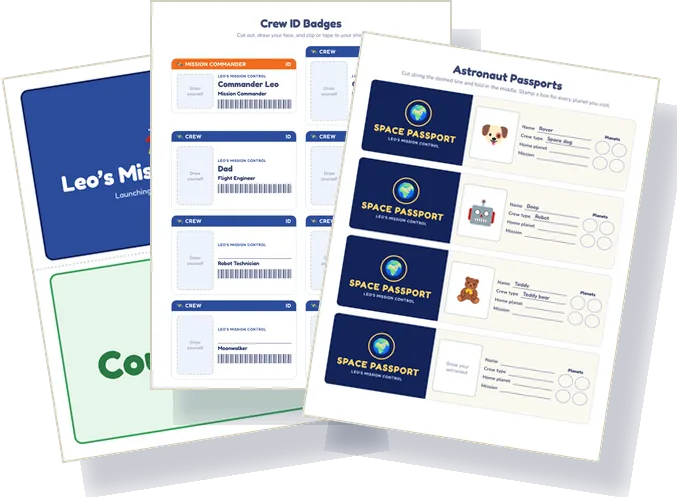
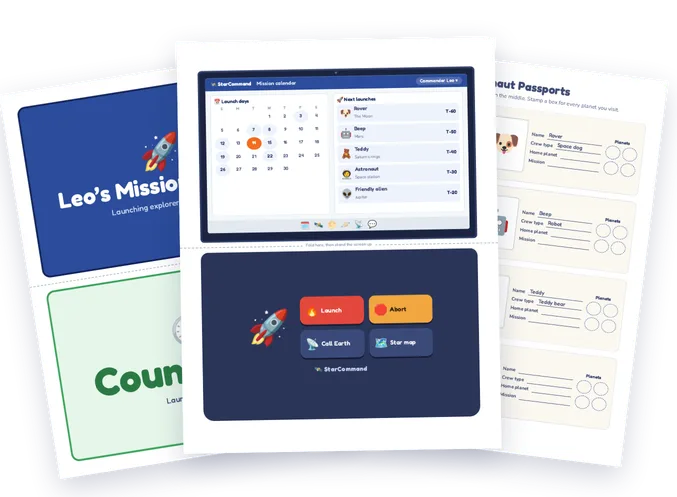
Sell a Party Bundle with every hunt and show all six play kits
The site and Etsy listings now lead with the Party Bundle (custom hunt plus
matching play kit, $16.99, $17.98 value), with hunt only at $9.99 and play
kit only at $7.99. The order form has a bundle or hunt-only choice and sends
it as product. The kits section shows all six kits with their dashboards.

Claude-Session: https://claude.ai/code/session_01GRUfHPufT44LafxUtB7EbP

diff --git a/docs/index.html b/docs/index.html
@@ -177,27 +177,25 @@ input[type="text"], input[type="number"], select { width: 100%; font: 17px/1.3 v
 
 /* pretend play kits */
 .kits-lede { color: var(--ink-soft); font-size: 18px; max-width: 40em; margin-top: 12px; }
-.kit-feature { display: grid; grid-template-columns: repeat(2, 1fr); gap: 20px; margin-top: 32px; }
-.kit-card { background: var(--sheet); border: 1px solid var(--line); border-radius: var(--r); padding: 22px; display: grid; gap: 12px; align-content: start; }
+.kit-points { margin: 18px 0 0; padding-left: 20px; color: var(--ink-soft); display: grid; gap: 4px; max-width: 720px; }
+.kit-grid { display: grid; grid-template-columns: repeat(3, 1fr); gap: 20px; margin-top: 28px; }
+.kit-card { background: var(--sheet); border: 1px solid var(--line); border-radius: var(--r); padding: 20px; display: grid; gap: 10px; align-content: start; }
 .kit-card img { width: 100%; height: auto; aspect-ratio: 677 / 497; background: var(--tint); border-radius: 10px; }
 .kit-card .tag { justify-self: start; font: 500 12px/1 var(--mono); letter-spacing: .06em; text-transform: uppercase; padding: 6px 10px; border-radius: 99px; background: var(--tint); color: var(--mint-deep); }
-.kit-card p { color: var(--ink-soft); }
-.kit-card ul { margin: 0; padding-left: 20px; color: var(--ink-soft); font-size: 15.5px; display: grid; gap: 4px; }
-.kit-more { display: grid; grid-template-columns: repeat(4, 1fr); gap: 14px; margin-top: 20px; }
-.kit-mini { background: var(--sheet); border: 1.5px dashed var(--line); border-radius: var(--r); padding: 16px 18px; display: grid; gap: 6px; align-content: start; }
-.kit-mini b { font: 600 18px/1.2 var(--display); }
-.kit-mini span { font-size: 14.5px; color: var(--ink-soft); }
-.kit-mini small { font: 12px/1 var(--mono); color: var(--orange-edge); text-transform: uppercase; letter-spacing: .06em; }
-@media (max-width: 860px) { .kit-feature { grid-template-columns: 1fr; } .kit-more { grid-template-columns: repeat(2, 1fr); } }
+.kit-card p { color: var(--ink-soft); font-size: 15.5px; }
+@media (max-width: 960px) { .kit-grid { grid-template-columns: repeat(2, 1fr); } }
+@media (max-width: 600px) { .kit-grid { grid-template-columns: 1fr; } }
 
 /* pricing */
-.plans { display: grid; grid-template-columns: repeat(2, 1fr); gap: 20px; margin-top: 32px; max-width: 820px; }
+.plans { display: grid; grid-template-columns: 1.25fr 1fr 1fr; gap: 20px; margin-top: 32px; }
 .plan { background: var(--sheet); border: 1px solid var(--line); border-radius: var(--r); padding: 26px; display: grid; gap: 14px; align-content: start; }
 .plan.main { border: 2px solid var(--ink); }
 .plan .price { font: 700 40px/1 var(--display); font-variant-numeric: tabular-nums; }
+.plan .was { font: 500 14px/1.3 var(--body); color: var(--mint-deep); margin-top: -6px; }
+.plan .was s { color: var(--ink-soft); }
 .plan .price small { font: 400 15px/1 var(--body); color: var(--ink-soft); }
 .plan ul { margin: 0; padding-left: 20px; color: var(--ink-soft); display: grid; gap: 6px; }
-@media (max-width: 700px) { .plans { grid-template-columns: 1fr; } }
+@media (max-width: 860px) { .plans { grid-template-columns: 1fr; } }
 
 /* faq */
 .faq { margin-top: 28px; display: grid; gap: 10px; max-width: 780px; }
@@ -241,7 +239,7 @@ footer .brand b { display: block; font: 600 19px/1.2 var(--display); }
         <h1 style="margin-top:14px">A treasure hunt written for <em>your</em> house.</h1>
         <p class="lede">Tell us your child’s name and the spots in your home you want to use. In a few minutes you get rhyming clue cards, a host checklist and a certificate, ready to print.</p>
         <div class="ctas">
-          <a class="btn btn-orange" href="#order">Make my hunt · $9.99</a>
+          <a class="btn btn-orange" href="#order">Make my party bundle · $16.99</a>
           <a class="btn btn-ghost" href="#kit">See what’s inside</a>
         </div>
         <ul class="facts">
@@ -301,7 +299,7 @@ footer .brand b { display: block; font: 600 19px/1.2 var(--display); }
   <section class="stop" id="order">
     <div class="wrap">
       <div class="pin"><b></b><span class="eyebrow">Make your hunt</span></div>
-      <h2>Build your hunt</h2>
+      <h2>Build your party bundle</h2>
       <form class="builder" id="orderForm" novalidate>
         <div class="panel">
           <div class="row2">
@@ -319,7 +317,11 @@ footer .brand b { display: block; font: 600 19px/1.2 var(--display); }
         <aside class="panel summary" aria-live="polite">
           <div class="field"><span class="eyebrow">Your trail</span><p id="trailTitle" style="font:600 20px/1.2 var(--display)"></p></div>
           <ol class="route" id="route"></ol>
-          <div class="total"><span>Custom hunt, PDF</span><strong>$9.99</strong></div>
+          <div class="chips" role="group" aria-label="What to include">
+            <button type="button" class="chip product" data-product="bundle" data-price="16.99" data-label="Hunt + play kit, PDF" aria-pressed="true">Hunt + play kit</button>
+            <button type="button" class="chip product" data-product="hunt" data-price="9.99" data-label="Custom hunt, PDF" aria-pressed="false">Hunt only</button>
+          </div>
+          <div class="total"><span id="totalLabel">Hunt + play kit, PDF</span><strong id="totalPrice">$16.99</strong></div>
           <button class="btn btn-orange" type="submit" style="justify-content:center">Continue to checkout</button>
           <p class="status" id="formStatus"></p>
           <p class="alt">Prefer Etsy? <a id="etsyLink" href="#" target="_blank" rel="noopener">Order the same hunt in our Etsy shop</a>.</p>
@@ -332,28 +334,45 @@ footer .brand b { display: block; font: 600 19px/1.2 var(--display); }
     <div class="wrap">
       <div class="pin"><b></b><span class="eyebrow">Pretend play kits</span></div>
       <h2>Keep the adventure going after the hunt</h2>
-      <p class="kits-lede">Printable role-play kits with your child’s name on the signs, badges and certificate, and their own pets or toys as the patients, passengers and crew. Every hunt theme has a matching kit, and there are stand-alone kits too.</p>
-      <div class="kit-feature">
+      <p class="kits-lede">Every hunt comes with a matching play kit: 17 printable pages with your child’s name on the signs, badges and certificate, and their own pets or toys as the patients, passengers and crew.</p>
+      <ul class="kit-points"><li>8 door signs with your child’s name</li><li>A fold-up dashboard with a calendar, a “next up” list and 3 screens</li><li>ID badges, check-up forms, tickets, passports, a menu with coins and a certificate</li></ul>
+      <div class="kit-grid">
         <article class="kit-card">
-          <img src="img/kit-space.webp" alt="Mission Control kit pages: a Leo’s Mission Control sign, crew ID badges and space passports" width="677" height="497" loading="lazy">
-          <span class="tag">Goes with Deep Space</span>
-          <h3>Mission Control</h3>
-          <p>Run the launch from a cardboard rocket. Crew badges, boarding passes, astronaut health checks and a Space Cadet certificate.</p>
-          <ul><li>8 signs, including “Leo’s Mission Control”</li><li>Passports for each crew member</li><li>Snack bar menu with star credits to cut out</li></ul>
+          <img src="img/kit-dino.webp" alt="Dino Dig Lab kit pages: a sign, a dino field scanner with a calendar screen, and passports" width="677" height="497" loading="lazy">
+          <span class="tag">Comes with Dino Fossil Recovery</span>
+          <h3>Dino Dig Lab</h3>
+          <p>Run a fossil lab with a dino scanner that tracks today’s digs, scientist badges and a dino passport for every toy.</p>
         </article>
         <article class="kit-card">
-          <img src="img/kit-vet.webp" alt="Vet Clinic kit pages: a Maya’s Pet Clinic sign, staff ID badges and pet passports" width="677" height="497" loading="lazy">
+          <img src="img/kit-hero.webp" alt="Hero HQ kit pages: a sign, a hero communicator with a calendar screen, and passports" width="677" height="497" loading="lazy">
+          <span class="tag">Comes with Superhero HQ Trial</span>
+          <h3>Hero HQ</h3>
+          <p>Answer alerts on the hero communicator, hand out hero badges and log every rescue on the mission board.</p>
+        </article>
+        <article class="kit-card">
+          <img src="img/kit-pirate.webp" alt="Pirate Ship kit pages: a sign, a fold-up ship’s helm with a calendar screen, and passports" width="677" height="497" loading="lazy">
+          <span class="tag">Comes with Pirate’s Lost Ledger</span>
+          <h3>Pirate Ship</h3>
+          <p>Steer the ship’s helm, check the crew’s sea legs, sell voyage tickets and pay in gold doubloons.</p>
+        </article>
+        <article class="kit-card">
+          <img src="img/kit-space.webp" alt="Mission Control kit pages: a sign, a mission control console with a calendar screen, and passports" width="677" height="497" loading="lazy">
+          <span class="tag">Comes with Deep Space Rover</span>
+          <h3>Mission Control</h3>
+          <p>Launch from the mission control console, with crew badges, boarding passes and astronaut health checks.</p>
+        </article>
+        <article class="kit-card">
+          <img src="img/kit-royal.webp" alt="Royal Castle kit pages: a sign, a magic mirror with a calendar screen, and passports" width="677" height="497" loading="lazy">
+          <span class="tag">Comes with Royal Castle Garden Quest</span>
+          <h3>Royal Castle</h3>
+          <p>Greet guests at the magic mirror, crown the royal court and stamp a royal pass for every visitor.</p>
+        </article>
+        <article class="kit-card">
+          <img src="img/kit-vet.webp" alt="Vet Clinic kit pages: a sign, a clinic laptop with a calendar screen, and passports" width="677" height="497" loading="lazy">
           <span class="tag">Stand-alone kit</span>
           <h3>Vet Clinic</h3>
-          <p>Turn the living room into a pet clinic. Staff badges, check-up forms for each of your child’s pets, prescriptions and a Junior Vet certificate.</p>
-          <ul><li>8 signs, including “Maya’s Pet Clinic”</li><li>A check-up form and passport for every pet</li><li>Price list with paw coins to cut out</li></ul>
+          <p>Turn the living room into a pet clinic with a clinic laptop, check-up forms for every pet and prescriptions.</p>
         </article>
-      </div>
-      <div class="kit-more">
-        <div class="kit-mini"><small>Coming soon</small><b>Dino Dig Lab</b><span>Goes with Dino Fossil Recovery</span></div>
-        <div class="kit-mini"><small>Coming soon</small><b>Superhero HQ</b><span>Goes with Superhero HQ Trial</span></div>
-        <div class="kit-mini"><small>Coming soon</small><b>Pirate Ship</b><span>Goes with Pirate’s Lost Ledger</span></div>
-        <div class="kit-mini"><small>Coming soon</small><b>Royal Castle</b><span>Goes with Royal Castle Quest</span></div>
       </div>
     </div>
   </section>
@@ -361,11 +380,13 @@ footer .brand b { display: block; font: 600 19px/1.2 var(--display); }
   <section class="stop" id="pricing">
     <div class="wrap">
       <div class="pin"><b></b><span class="eyebrow">Pricing</span></div>
-      <h2>One price, no subscription</h2>
+      <h2>Hunt and play kit, one price</h2>
       <div class="plans">
-        <div class="plan main"><span class="eyebrow">Custom hunt</span><div class="price">$9.99 <small>per party</small></div><ul><li>Your child’s name on every page</li><li>6 to 10 of your home’s own spots</li><li>New rhymes for any spot you add</li><li>Host guide, briefing, cards and certificate</li></ul><a class="btn btn-orange" href="#order">Make my hunt</a></div>
-        <div class="plan"><span class="eyebrow">Theme pack</span><div class="price">$4.80 <small>on Etsy</small></div><ul><li>Ready-made hunt with 8 common spots</li><li>Couch, fridge, bed, bathtub and more</li><li>Instant download</li></ul><a class="btn btn-ghost" id="etsyLink2" href="#" target="_blank" rel="noopener">Browse on Etsy</a></div>
+        <div class="plan main"><span class="eyebrow">Party bundle · most popular</span><div class="price">$16.99 <small>per party</small></div><p class="was"><s>$17.98</s> value: the hunt and its play kit together</p><ul><li>Custom hunt with your child’s name and your home’s own spots</li><li>Matching 17-page play kit with a fold-up dashboard</li><li>Your child’s pets or toys as the patients and crew</li><li>Delivered to your inbox in minutes</li></ul><a class="btn btn-orange" href="#order">Make my party bundle</a></div>
+        <div class="plan"><span class="eyebrow">Hunt only</span><div class="price">$9.99</div><ul><li>Your child’s name on every page</li><li>6 to 10 of your home’s own spots</li><li>Host guide, briefing, cards and certificate</li></ul><a class="btn btn-ghost" href="#order">Make just the hunt</a></div>
+        <div class="plan"><span class="eyebrow">Play kit only</span><div class="price">$7.99</div><ul><li>Any of the six kits, including Vet Clinic</li><li>Signs, badges and dashboard with your child’s name</li><li>Great for a rainy day or a party table</li></ul><a class="btn btn-ghost" href="#kits">See the kits</a></div>
       </div>
+      <p class="hint" style="margin-top:16px">Prefer Etsy? Ready-made theme packs are in <a id="etsyLink2" href="#" target="_blank" rel="noopener">our Etsy shop</a>.</p>
     </div>
   </section>
 
@@ -511,12 +532,21 @@ function render() {
 $('childName').addEventListener('input', render);
 $('childAge').addEventListener('input', render);
 
+let product = 'bundle';
+document.querySelectorAll('.product').forEach((b) => b.addEventListener('click', () => {
+  product = b.dataset.product;
+  document.querySelectorAll('.product').forEach((x) => x.setAttribute('aria-pressed', String(x === b)));
+  $('totalLabel').textContent = b.dataset.label;
+  $('totalPrice').textContent = '$' + b.dataset.price;
+}));
+
 $('orderForm').addEventListener('submit', async (e) => {
   e.preventDefault();
   const childName = $('childName').value.trim();
   if (!childName) return status('Add your child’s first name so we can put it on the cards.', true), $('childName').focus();
   if (state.picks.length < 6) return status(`Pick at least 6 spots. You have ${state.picks.length}.`, true);
   const order = {
+    product,
     theme: state.theme,
     childName,
     age: parseInt($('childAge').value, 10) || null,

diff --git a/etsy-listings.md b/etsy-listings.md
@@ -103,12 +103,16 @@ princess party, princess scavenger, scavenger hunt kids, treasure hunt clues, pr
 
 ---
 
-## 6. Custom Scavenger Hunt ($9.99 to start)
+## 6. Custom Party Bundle: hunt + matching play kit ($16.99, or $9.99 hunt only)
 
-Raise to $12.99, then $14.99, once you have 10 to 20 reviews. No sale needed on this one.
+Add a variation called **Package** with prices per option:
+- **Party Bundle: hunt + play kit**: $16.99 (make this the first option, so it's the default shown)
+- **Hunt only**: $9.99
+
+The bundle is the main offer; "hunt only" is there so the bundle looks like the obvious deal. No sale needed. Once you have 10 to 20 reviews, raise the bundle to $19.99 and the hunt to $12.99.
 
 **Title**
-Custom Scavenger Hunt for Kids, Personalized Birthday Party Game with Your Child's Name and Home, Rhyming Treasure Hunt Clues, Printable PDF
+Custom Scavenger Hunt and Pretend Play Kit for Kids, Personalized Birthday Party Game with Your Child's Name and Home, Rhyming Clues, Printable PDF
 
 **Description**
 ```
@@ -119,11 +123,21 @@ Tell us your child's name, age, theme and 6–10 hiding spots in your house or y
 ★ CHOOSE A THEME
 Dinosaurs · Superheroes · Pirates · Outer Space · Princess & Knights
 
-★ WHAT YOU GET
+★ PARTY BUNDLE: THE HUNT + A MATCHING PLAY KIT ($17.98 value)
+THE HUNT
 • Host Guide with your exact hiding order
 • Mission Briefing letter addressed to your child
 • 6–10 custom rhyming clue cards (4" x 6", two per page)
 • Mission Accomplished Certificate with your child's name
+
+THE PLAY KIT (17 pages, matches your theme)
+• 8 door signs with your child's name ("Leo's Mission Control")
+• A fold-up pretend dashboard with a calendar, a "next up" list and 3 screens
+  (dino scanner, hero communicator, ship's helm, mission control console or magic mirror)
+• ID badges, a job log, check-up forms for each of your child's pets or toys
+• Tickets, passports, a menu with coins to cut out, and a certificate
+
+Choose "Hunt only" if you just want the scavenger hunt.
 
 ★ HOW TO ORDER
 1. Fill in the personalization box (see the example below)
@@ -131,7 +145,7 @@ Dinosaurs · Superheroes · Pirates · Outer Space · Princess & Knights
 3. We send your PDF through Etsy messages, usually within a few hours
 
 Personalization example:
-Maya, turning 6, Space. Spots: front door, shoe rack, coat closet, washer, dryer, piano, dog bed, kitchen table (prize)
+Maya, turning 6, Space. Spots: front door, shoe rack, coat closet, washer, dryer, piano, dog bed, kitchen table (prize). Pets/toys: Rover (dog), Teddy (bear)
 
 ★ PLEASE NOTE
 This is a DIGITAL file. No physical item will be shipped.
@@ -140,10 +154,50 @@ This is a DIGITAL file. No physical item will be shipped.
 **Personalization:** On, required. Max characters 500.
 Instructions to buyer:
 ```
-Child's name, age, theme (Dino, Superhero, Pirate, Space, or Princess), and 6–10 hiding spots in order. The LAST spot is where the prize goes.
+Child's name, age, theme (Dino, Superhero, Pirate, Space, or Princess), and 6–10 hiding spots in order. The LAST spot is where the prize goes. Bundle: add up to 6 pets or toys for the play kit, like "Rover (dog)".
 ```
 
 **Digital file:** Etsy requires one. Upload a one-page "Thank you, your custom hunt is on its way" PDF, or reuse a standard pack as a bonus.
 
 **Tags (13)**
 custom hunt for kids, personalized game, scavenger hunt kids, treasure hunt clues, kids birthday game, custom party game, personalized party, indoor scavenger, birthday activity, rhyming clues, name party game, custom treasure hunt, kids party printable
+
+---
+
+## 7. Personalized Pretend Play Kit ($7.99)
+
+One listing with a **Kit** variation: Vet Clinic, Mission Control, Dino Dig Lab, Hero HQ, Pirate Ship, Royal Castle. The Vet Clinic kit is the stand-alone one that doesn't match a hunt, so put it first in the photos.
+
+**Title**
+Personalized Pretend Play Kit for Kids, Printable Vet Clinic, Space, Dinosaur, Pirate, Superhero or Castle Role Play Set with Your Child's Name, PDF
+
+**Description**
+```
+Turn the living room into a vet clinic, a pirate ship or mission control, with your child's name on every sign.
+
+★ WHAT YOU GET (17-page PDF, US Letter)
+• 8 door signs, including "[Name]'s Pet Clinic" (or Pirate Ship, Mission Control…)
+• A fold-up pretend dashboard: a clinic laptop, dino scanner, hero communicator,
+  ship's helm, mission control console or magic mirror, with a calendar,
+  a "next patients" list and 3 screens to swap
+• 8 ID badges for your child, family and friends
+• A check-up form and passport for each of your child's pets or toys
+• Tickets, a job log, a price list with coins to cut out, and a certificate
+
+★ HOW TO ORDER
+Fill in the personalization box with your child's name and up to 6 pets or toys.
+We send your PDF through Etsy messages, usually within a few hours.
+
+★ PLEASE NOTE
+This is a DIGITAL file. No physical item will be shipped. For personal use only.
+```
+
+**Personalization:** On, required. Instructions to buyer:
+```
+Child's first name, and up to 6 pets or toys with what they are, like "Rover (dog), Teddy (bear)".
+```
+
+**Photos:** use `/mnt/project-files/pretend-play/kit-*-pages.png` and the site's kit images for now.
+
+**Tags (13)**
+pretend play, pretend play kit, vet clinic printable, kids role play, dramatic play, printable play set, personalized kids, pirate party game, space party kids, dinosaur party, superhero party, princess party, homeschool play
